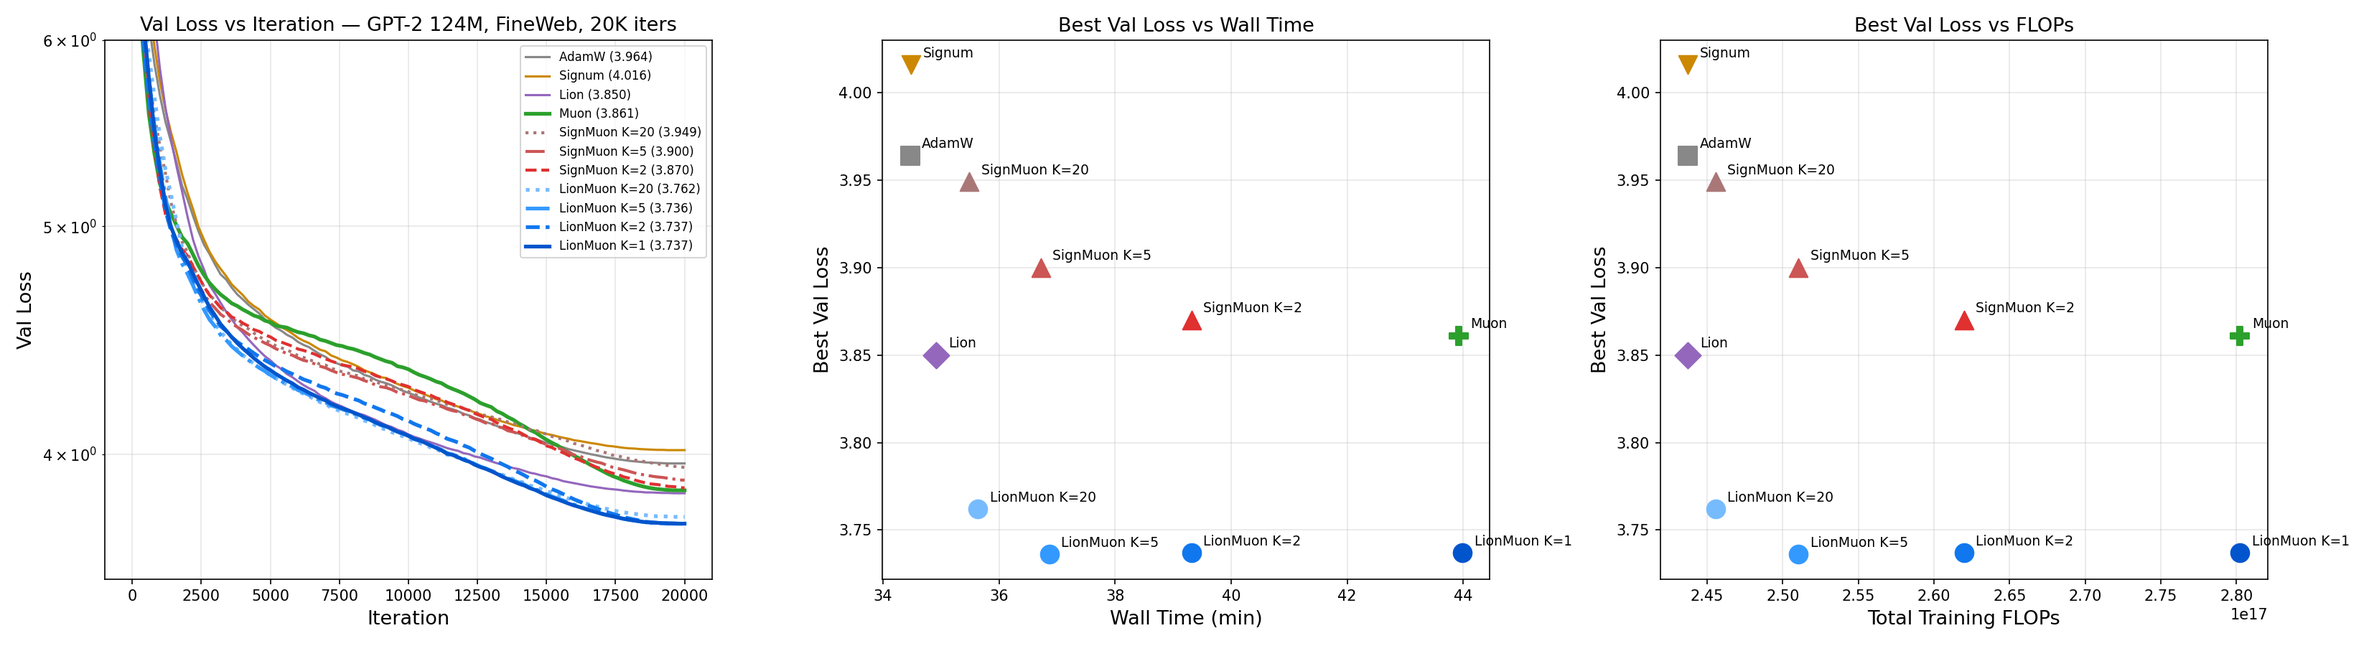
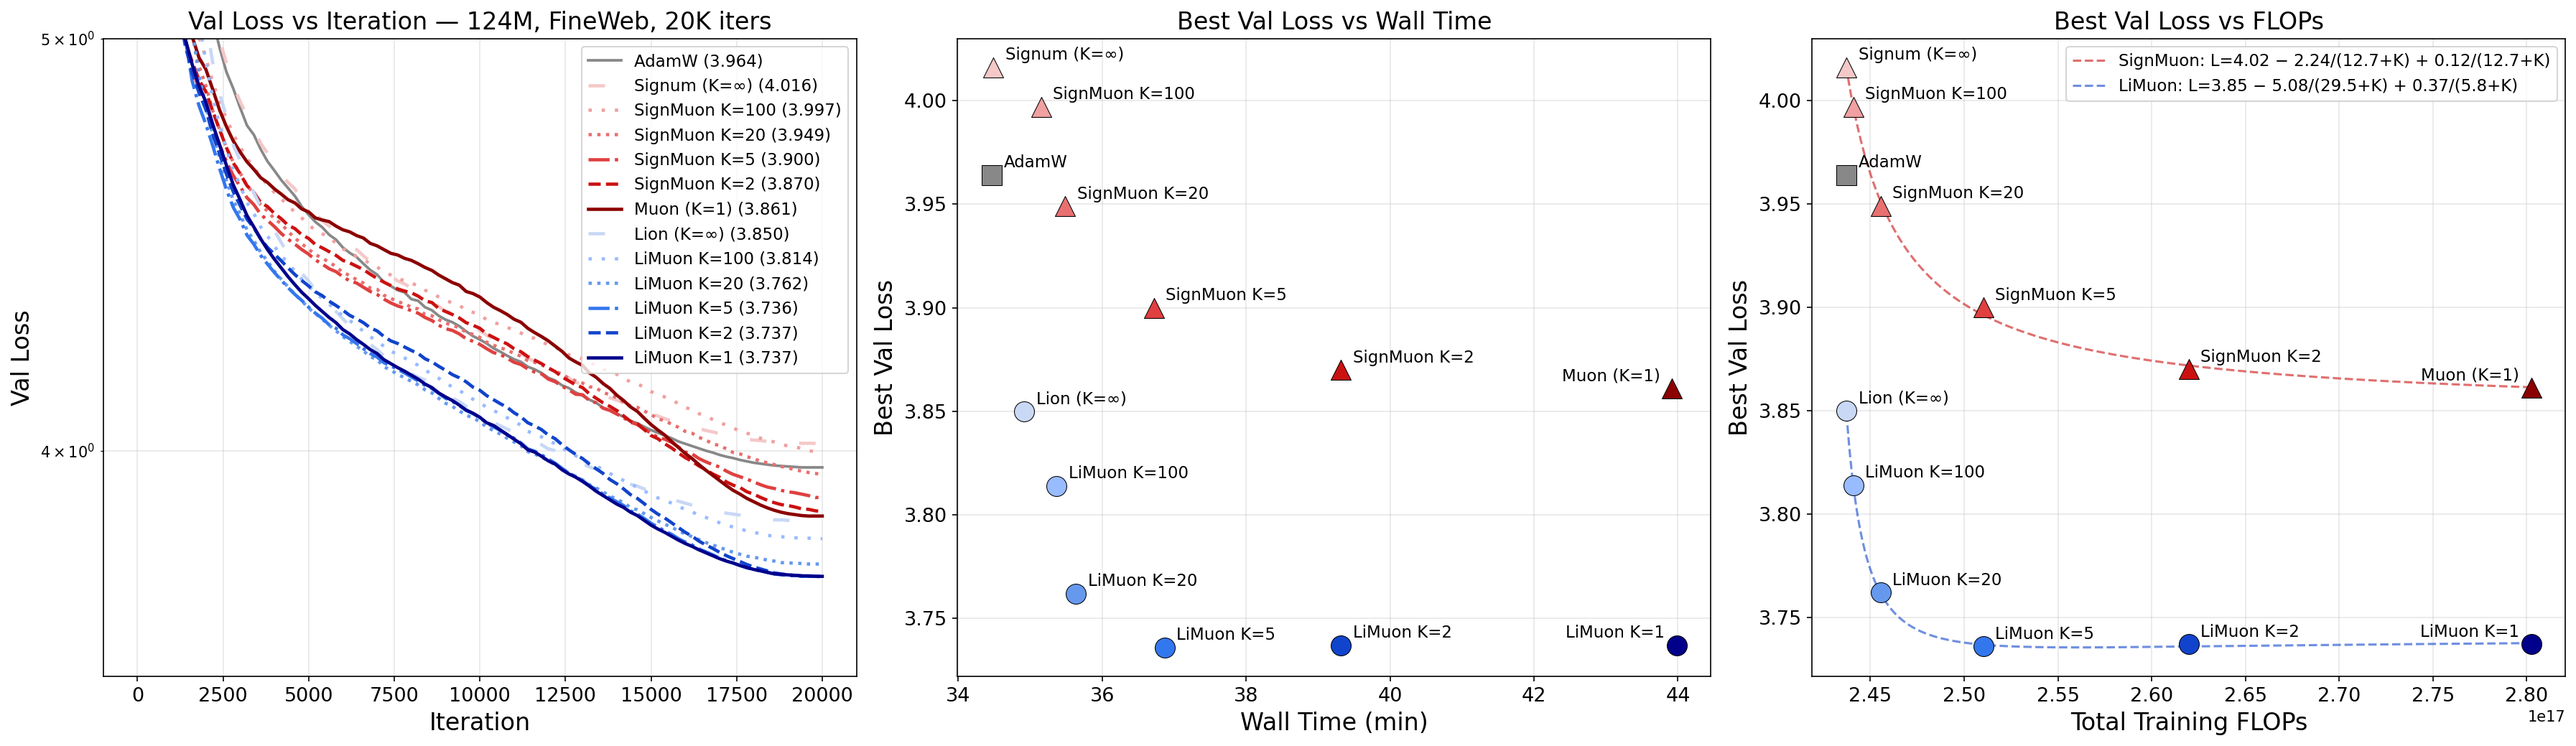
small changes

diff --git a/scripts/plotting/plot_results.py b/scripts/plotting/plot_results.py
@@ -15,6 +15,7 @@ import yaml
 import matplotlib
 matplotlib.use('Agg')
 import matplotlib.pyplot as plt
+from matplotlib.lines import Line2D
 
 BASE_DIR = '/home/arman/llm-baselines'
 WANDB_DIR = os.path.join(BASE_DIR, 'wandb')
@@ -33,45 +34,56 @@ DATASETS = {
     },
 }
 
+# Display names: experiment key -> label
+# Conceptual families:
+#   SignMuon family (SGD momentum): Muon(K=1) -> SignMuon K=2,5,20,100 -> Signum(K=inf)
+#   LiMuon family (dual-EMA):      LiMuon K=1 -> K=2,5,20,100 -> Lion(K=inf)
+#   AdamW: standalone baseline
 NAMES = {
     'adamw':          'AdamW',
-    'signum':         'Signum',
-    'muon':           'Muon',
-    'lion':           'Lion',
+    'muon':           'Muon (K=1)',
     'signmuon_k2':    'SignMuon K=2',
     'signmuon_k5':    'SignMuon K=5',
     'signmuon_k20':   'SignMuon K=20',
-    'lionmuon_k1':    'LionMuon K=1',
-    'lionmuon_k2':    'LionMuon K=2',
-    'lionmuon_k5':    'LionMuon K=5',
-    'lionmuon_k20':   'LionMuon K=20',
+    'signmuon_k100':  'SignMuon K=100',
+    'signum':         'Signum (K=\u221e)',
+    'lionmuon_k1':    'LiMuon K=1',
+    'lionmuon_k2':    'LiMuon K=2',
+    'lionmuon_k5':    'LiMuon K=5',
+    'lionmuon_k20':   'LiMuon K=20',
+    'lionmuon_k100':  'LiMuon K=100',
+    'lion':           'Lion (K=\u221e)',
 }
 
 # --- Visual style ---
-# Baselines: muted distinct colors, solid thin
-# Muon: green, solid thick
-# SignMuon: red family, dashed (different dash patterns per K)
-# LionMuon: blue family, solid (different shades per K)
+# SignMuon family: red gradient, darker = lower K (more NS), triangle marker
+# LiMuon family: blue gradient, darker = lower K, circle marker
+# AdamW: gray, square marker
+# Darker color = more frequent NS steps (lower K)
 
 STYLE = {
-    'AdamW':           {'color': '#888888', 'ls': '-',      'lw': 1.5, 'marker': 's'},
-    'Signum':          {'color': '#cc8800', 'ls': '-',      'lw': 1.5, 'marker': 'v'},
-    'Lion':            {'color': '#9467bd', 'ls': '-',      'lw': 1.5, 'marker': 'D'},
-    'Muon':            {'color': '#2ca02c', 'ls': '-',      'lw': 2.5, 'marker': 'P'},
-    'SignMuon K=2':    {'color': '#e03030', 'ls': '--',     'lw': 2.0, 'marker': '^'},
-    'SignMuon K=5':    {'color': '#cc5555', 'ls': '-.',     'lw': 2.0, 'marker': '^'},
-    'SignMuon K=20':   {'color': '#aa7777', 'ls': ':',      'lw': 2.0, 'marker': '^'},
-    'LionMuon K=1':    {'color': '#0055cc', 'ls': '-',      'lw': 2.5, 'marker': 'o'},
-    'LionMuon K=2':    {'color': '#1177ee', 'ls': '--',     'lw': 2.5, 'marker': 'o'},
-    'LionMuon K=5':    {'color': '#3399ff', 'ls': '-.',     'lw': 2.5, 'marker': 'o'},
-    'LionMuon K=20':   {'color': '#77bbff', 'ls': ':',      'lw': 2.5, 'marker': 'o'},
+    'AdamW':              {'color': '#888888', 'ls': '-',  'lw': 1.8, 'marker': 's'},
+    # SignMuon family: dark red (K=1) -> light pink (K=inf)
+    'Muon (K=1)':         {'color': '#8b0000', 'ls': '-',        'lw': 2.2, 'marker': '^'},
+    'SignMuon K=2':       {'color': '#cc1111', 'ls': '--',       'lw': 2.2, 'marker': '^'},
+    'SignMuon K=5':       {'color': '#e04040', 'ls': '-.',       'lw': 2.2, 'marker': '^'},
+    'SignMuon K=20':      {'color': '#e87070', 'ls': ':',        'lw': 2.2, 'marker': '^'},
+    'SignMuon K=100':     {'color': '#f0a0a0', 'ls': (0,(1,3)),  'lw': 2.2, 'marker': '^'},
+    'Signum (K=\u221e)':  {'color': '#f5c8c8', 'ls': (0,(5,10)), 'lw': 2.2, 'marker': '^'},
+    # LiMuon family: dark blue (K=1) -> light blue (K=inf)
+    'LiMuon K=1':        {'color': '#00008b', 'ls': '-',        'lw': 2.2, 'marker': 'o'},
+    'LiMuon K=2':        {'color': '#1144cc', 'ls': '--',       'lw': 2.2, 'marker': 'o'},
+    'LiMuon K=5':        {'color': '#3377ee', 'ls': '-.',       'lw': 2.2, 'marker': 'o'},
+    'LiMuon K=20':       {'color': '#6699ee', 'ls': ':',        'lw': 2.2, 'marker': 'o'},
+    'LiMuon K=100':      {'color': '#99bbff', 'ls': (0,(1,3)),  'lw': 2.2, 'marker': 'o'},
+    'Lion (K=\u221e)':   {'color': '#c8d8f5', 'ls': (0,(5,10)), 'lw': 2.2, 'marker': 'o'},
 }
 
+# Plot order: SignMuon family high-K first (behind), then LiMuon family
 ORDER = [
-    'adamw', 'signum', 'lion', 'muon',
-    'signmuon_k20', 'signmuon_k5', 'signmuon_k2',
-    'lionmuon_k20', 'lionmuon_k5', 'lionmuon_k2',
-    'lionmuon_k1',
+    'adamw',
+    'signum', 'signmuon_k100', 'signmuon_k20', 'signmuon_k5', 'signmuon_k2', 'muon',
+    'lion', 'lionmuon_k100', 'lionmuon_k20', 'lionmuon_k5', 'lionmuon_k2', 'lionmuon_k1',
 ]
 
 
@@ -163,7 +175,7 @@ def plot_dataset(dataset_name):
         wall_min = r['runtime'] / 60 if r['runtime'] else 0
         print(f"  {label:<18s} {r['best_loss']:>10.4f} {math.exp(r['best_loss']):>8.1f} {wall_min:>10.1f}")
 
-    fig, (ax1, ax2, ax3) = plt.subplots(1, 3, figsize=(22, 6))
+    fig, (ax1, ax2, ax3) = plt.subplots(1, 3, figsize=(24, 7))
 
     # Plot 1: val_loss vs iteration
     for key in ORDER:
@@ -176,14 +188,27 @@ def plot_dataset(dataset_name):
                  label=f"{label} ({r['best_loss']:.3f})",
                  color=s.get('color', '#333'), ls=s.get('ls', '-'), lw=s.get('lw', 2))
     ax1.set_yscale('log')
-    ax1.set_ylim(None, 6)
-    ax1.set_xlabel('Iteration', fontsize=13)
-    ax1.set_ylabel('Val Loss', fontsize=13)
-    ax1.set_title(f'Val Loss vs Iteration — GPT-2 124M, {ds["title"]}, 20K iters', fontsize=13)
-    ax1.legend(fontsize=8, loc='upper right')
+    ax1.set_ylim(None, 5)
+    ax1.set_xlabel('Iteration', fontsize=16)
+    ax1.set_ylabel('Val Loss', fontsize=16)
+    ax1.set_title(f'Val Loss vs Iteration \u2014 124M, {ds["title"]}, 20K iters', fontsize=16)
+    ax1.legend(fontsize=11, loc='upper right')
     ax1.grid(True, alpha=0.3, which='both')
+    ax1.tick_params(labelsize=13)
+
+    # Labels that should be placed to the left of their point
+    LEFT_LABELS = {'Muon (K=1)', 'LiMuon K=1'}
+
+    def smart_annotate(ax, label, x, y, fontsize=11):
+        if label in LEFT_LABELS:
+            ax.annotate(label, (x, y), textcoords="offset points",
+                        xytext=(-8, 5), fontsize=fontsize, ha='right')
+        else:
+            ax.annotate(label, (x, y), textcoords="offset points",
+                        xytext=(8, 5), fontsize=fontsize, ha='left')
 
     # Plot 2: Best val loss vs wall time
+    wall_data = []
     for key in ORDER:
         if key not in runs:
             continue
@@ -191,17 +216,21 @@ def plot_dataset(dataset_name):
         label = NAMES.get(key, key)
         s = STYLE.get(label, {})
         wall_min = r['runtime'] / 60 if r['runtime'] else 0
-        ax2.scatter(wall_min, r['best_loss'], s=150, zorder=5,
-                    color=s.get('color', '#333'), marker=s.get('marker', 'o'))
-        ax2.annotate(label, (wall_min, r['best_loss']),
-                     textcoords="offset points", xytext=(8, 5), fontsize=9)
-    ax2.set_xlabel('Wall Time (min)', fontsize=13)
-    ax2.set_ylabel('Best Val Loss', fontsize=13)
-    ax2.set_title('Best Val Loss vs Wall Time', fontsize=13)
+        ax2.scatter(wall_min, r['best_loss'], s=180, zorder=5,
+                    color=s.get('color', '#333'), marker=s.get('marker', 'o'),
+                    edgecolors='black', linewidths=0.5)
+        wall_data.append((label, wall_min, r['best_loss']))
+    ax2.set_xlabel('Wall Time (min)', fontsize=16)
+    ax2.set_ylabel('Best Val Loss', fontsize=16)
+    ax2.set_title('Best Val Loss vs Wall Time', fontsize=16)
     ax2.grid(True, alpha=0.3)
+    ax2.tick_params(labelsize=13)
+    for label, x, y in wall_data:
+        smart_annotate(ax2, label, x, y)
 
     # Plot 3: Best val loss vs FLOPs
     n_layer, n_embd, seq_len, batch_size, iterations = 12, 768, 512, 32, 20000
+    flops_data = []
     for key in ORDER:
         if key not in runs:
             continue
@@ -210,20 +239,83 @@ def plot_dataset(dataset_name):
         s = STYLE.get(label, {})
         flops = compute_flops(n_layer, n_embd, seq_len, batch_size, iterations,
                               r['opt'], K=r['K'], ns_steps=r['ns_steps'])
-        ax3.scatter(flops, r['best_loss'], s=150, zorder=5,
-                    color=s.get('color', '#333'), marker=s.get('marker', 'o'))
-        ax3.annotate(label, (flops, r['best_loss']),
-                     textcoords="offset points", xytext=(8, 5), fontsize=9)
-    ax3.set_xlabel('Total Training FLOPs', fontsize=13)
-    ax3.set_ylabel('Best Val Loss', fontsize=13)
-    ax3.set_title('Best Val Loss vs FLOPs', fontsize=13)
+        ax3.scatter(flops, r['best_loss'], s=180, zorder=5,
+                    color=s.get('color', '#333'), marker=s.get('marker', 'o'),
+                    edgecolors='black', linewidths=0.5)
+        flops_data.append((label, flops, r['best_loss']))
+    ax3.set_xlabel('Total Training FLOPs', fontsize=16)
+    ax3.set_ylabel('Best Val Loss', fontsize=16)
+    ax3.set_title('Best Val Loss vs FLOPs', fontsize=16)
     ax3.grid(True, alpha=0.3)
+    ax3.tick_params(labelsize=13)
     ax3.ticklabel_format(style='scientific', axis='x', scilimits=(0, 0))
+    for label, x, y in flops_data:
+        smart_annotate(ax3, label, x, y)
+
+    # Fit loss(K) = a - b/(c+K) + d/(e+K),  a = L_∞ fixed from data
+    #   - b/(c+K): NS benefit (spectral alignment, half-life c)
+    #   - d/(e+K): cost of NS overhead / alternation penalty (half-life e)
+    #   - At K→∞: loss → a = L_∞
+    import numpy as np  # noqa: E402
+    from scipy.optimize import curve_fit  # noqa: E402
+    c_base = compute_flops(n_layer, n_embd, seq_len, batch_size, iterations, 'adamw')
+
+    SIGNMUON_KEYS = ['muon', 'signmuon_k2', 'signmuon_k5', 'signmuon_k20', 'signmuon_k100', 'signum']
+    LIMUON_KEYS = ['lionmuon_k1', 'lionmuon_k2', 'lionmuon_k5', 'lionmuon_k20', 'lionmuon_k100', 'lion']
+    K_INF = 1e6
+
+    def loss_model(K, a, b, c, d, e):
+        return a - b / (c + K) + d / (e + K)
+
+    for family_keys, inf_key, color, fname in [
+        (SIGNMUON_KEYS, 'signum', '#cc1111', 'SignMuon'),
+        (LIMUON_KEYS, 'lion', '#1144cc', 'LiMuon'),
+    ]:
+        k_pts, l_pts = [], []
+        for key in family_keys:
+            if key not in runs:
+                continue
+            r = runs[key]
+            k = K_INF if key == inf_key else float(r['K'])
+            k_pts.append(k)
+            l_pts.append(r['best_loss'])
+        if len(k_pts) >= 4:
+            K_arr = np.array(k_pts)
+            L_arr = np.array(l_pts)
+            L_inf = runs[inf_key]['best_loss'] if inf_key in runs else max(l_pts)
+
+            def fit_fn(K, b, c, d, e):
+                return loss_model(K, L_inf, b, c, d, e)
+
+            try:
+                popt, _ = curve_fit(fit_fn, K_arr, L_arr, p0=[1, 5, 0.1, 0.1],
+                                    bounds=([0, 0.01, 0, 0.001], [100, 1000, 100, 1000]),
+                                    maxfev=50000)
+                b, c, d, e = popt
+
+                # Plot on FLOPs axis
+                k_smooth = np.logspace(0, 6, 500)
+                l_smooth = loss_model(k_smooth, L_inf, b, c, d, e)
+                c_ns_total = c_base * (compute_flops(n_layer, n_embd, seq_len, batch_size,
+                                        iterations, 'sign_muon', K=1) / c_base - 1)
+                f_smooth = c_base + c_ns_total / k_smooth
+                eq = (f'L={L_inf:.2f} \u2212 {b:.2f}/({c:.1f}+K)'
+                      f' + {d:.2f}/({e:.1f}+K)')
+                ax3.plot(f_smooth, l_smooth, color=color, ls='--', lw=1.5, alpha=0.6,
+                         label=f'{fname}: {eq}')
+
+                l_pred = loss_model(K_arr, L_inf, b, c, d, e)
+                rmse = np.sqrt(np.mean((L_arr - l_pred)**2))
+                print(f"  {fname}: L={L_inf:.3f} - {b:.2f}/({c:.1f}+K) + {d:.2f}/({e:.1f}+K)  RMSE={rmse:.4f}")
+            except RuntimeError as e:
+                print(f"  {fname}: fit failed: {e}")
+
+    ax3.legend(fontsize=11, loc='upper right')
 
     plt.tight_layout()
     os.makedirs(RESULTS_DIR, exist_ok=True)
     out_path = os.path.join(RESULTS_DIR, f'{dataset_name}_results.png')
-    plt.savefig(out_path, dpi=150)
+    plt.savefig(out_path, dpi=150, bbox_inches='tight')
     plt.close()
     print(f"Plot saved to {out_path}")
 
